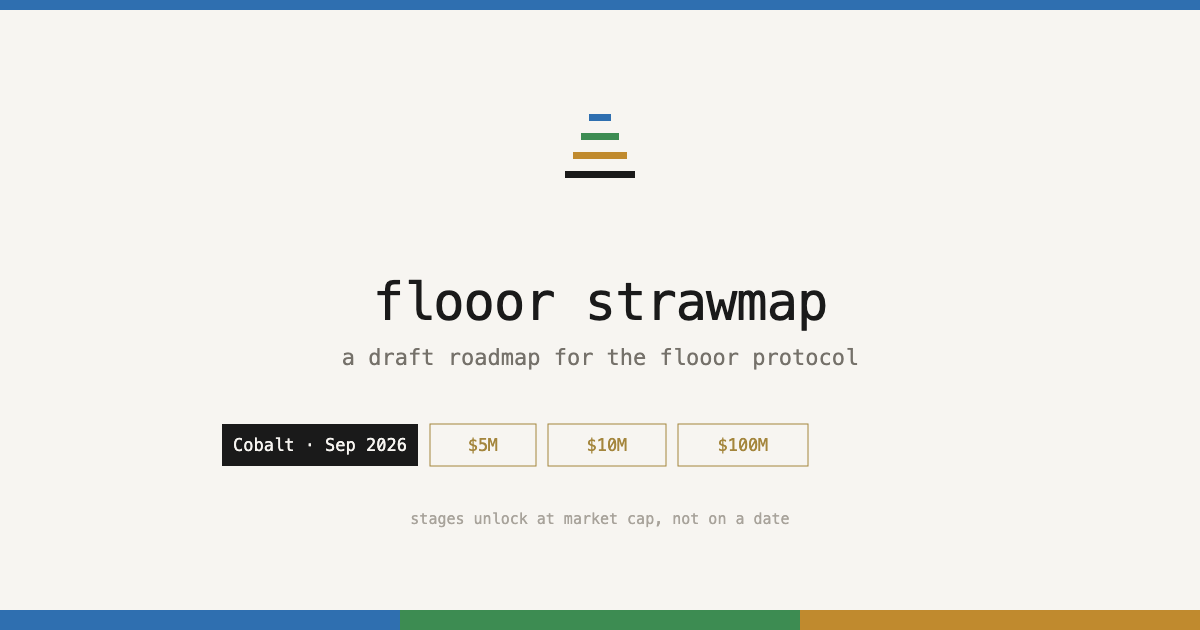
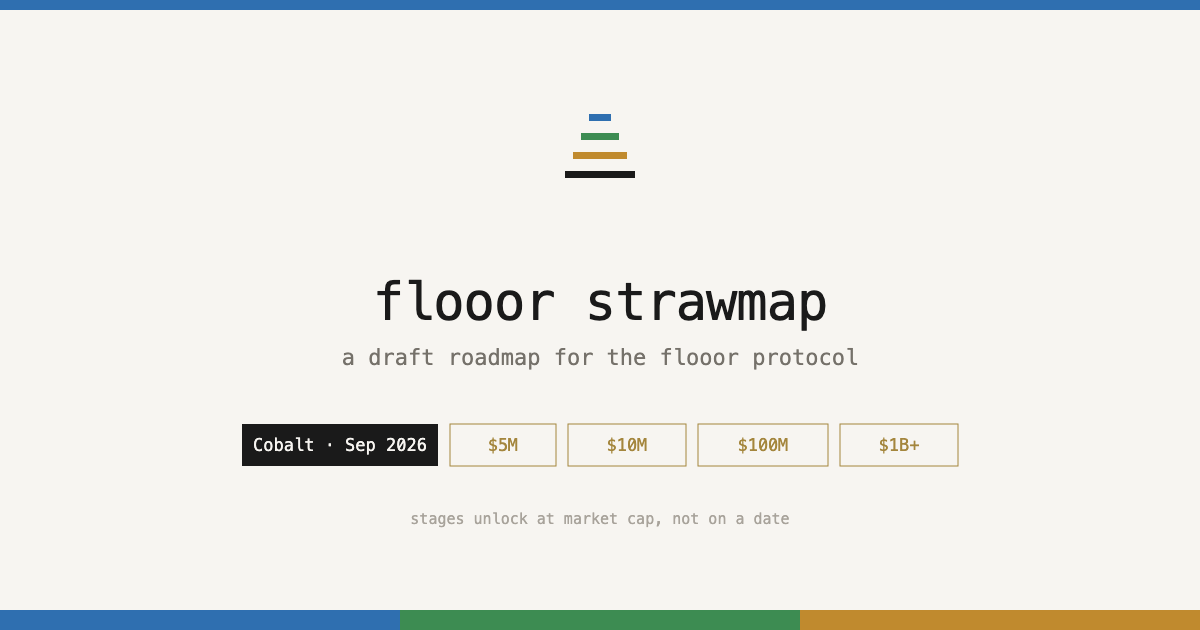
Add a $1B+ stage
The map stopped at $100M, which left the north stars — Punks, BAYC — with
no column that could plausibly carry them. Add a final $1B+ column:
the reference floor and a floor oracle on the listings row, an endowment
vault deep enough to pay from its own float on the vault row, and a
wallet-native flooor on the surface row.

Carry the new stage into the header, FAQ, OG card, meta copy and README.

Changed region(s): [[0.185, 0.6635, 0.8017, 0.754]]

diff --git a/index.html b/index.html
@@ -4,14 +4,14 @@
   <meta charset="UTF-8">
   <meta name="viewport" content="width=device-width, initial-scale=1.0">
   <title>flooor strawmap — draft protocol roadmap</title>
-  <meta name="description" content="A work-in-progress draft roadmap for the flooor protocol on Base. Stage 1 is Cobalt in September 2026; the stages after it unlock at $5M, $10M and $100M market cap. Covering the auction, vault and surface layers.">
+  <meta name="description" content="A work-in-progress draft roadmap for the flooor protocol on Base. Stage 1 is Cobalt in September 2026; the stages after it unlock at $5M, $10M, $100M and $1B+ market cap. Covering the auction, vault and surface layers.">
   <meta name="keywords" content="flooor, flooor.fun, roadmap, strawmap, NFT auction, Base, royalties, sign and claim, vault, market cap milestones, protocol roadmap">
   <meta name="author" content="flooor">
 
   <!-- Open Graph -->
   <meta property="og:type" content="website">
   <meta property="og:title" content="flooor strawmap — draft protocol roadmap">
-  <meta property="og:description" content="A strawman roadmap for the flooor protocol. Cobalt in September, then $5M, $10M and $100M market cap.">
+  <meta property="og:description" content="A strawman roadmap for the flooor protocol. Cobalt in September, then $5M, $10M, $100M and $1B+ market cap.">
   <meta property="og:url" content="https://omgbbqhaxx.github.io/flooorstrawmap/">
   <meta property="og:site_name" content="flooor strawmap">
   <meta property="og:image" content="https://omgbbqhaxx.github.io/flooorstrawmap/og-card.png">
@@ -21,7 +21,7 @@
   <!-- Twitter Card -->
   <meta name="twitter:card" content="summary_large_image">
   <meta name="twitter:title" content="flooor strawmap — draft protocol roadmap">
-  <meta name="twitter:description" content="A strawman roadmap for the flooor protocol. Cobalt in September, then $5M, $10M and $100M market cap.">
+  <meta name="twitter:description" content="A strawman roadmap for the flooor protocol. Cobalt in September, then $5M, $10M, $100M and $1B+ market cap.">
   <meta name="twitter:image" content="https://omgbbqhaxx.github.io/flooorstrawmap/og-card.png">
 
   <!-- Favicon (SVG) -->
@@ -102,7 +102,7 @@
     /* ── Grid ── */
     .grid {
       display: grid;
-      grid-template-columns: 104px repeat(4, 244px) 272px 272px;
+      grid-template-columns: 104px repeat(5, 240px) 268px 268px;
       column-gap: 12px;
       row-gap: 14px;
       align-items: stretch;
@@ -232,7 +232,7 @@
 
     /* ── North stars ── */
     .northstars {
-      grid-column: 6;
+      grid-column: 7;
       grid-row: 2 / span 3;
       background: #111;
       padding: 12px;
@@ -278,7 +278,7 @@
     .col-head.is-tasks .date { color: rgba(255, 255, 255, 0.5); }
 
     .tasks {
-      grid-column: 7;
+      grid-column: 8;
       grid-row: 2 / span 3;
       background: #1a1a1a;
       padding: 12px;
@@ -525,7 +525,7 @@
     <div class="header-meta">
       <div>
         <div class="label">stage 1 — Cobalt, September 2026</div>
-        <div>then $5M · $10M · $100M market cap · <a href="https://vrnouns.gitbook.io/flooor" target="_blank">docs</a></div>
+        <div>then $5M · $10M · $100M · $1B+ market cap · <a href="https://vrnouns.gitbook.io/flooor" target="_blank">docs</a></div>
       </div>
     </div>
     <div style="flex-shrink:0">
@@ -605,6 +605,10 @@
           <div class="name">$100M</div>
           <div class="date">unlocks at market cap</div>
         </div>
+        <div class="col-head is-cap">
+          <div class="name">$1B+</div>
+          <div class="date">unlocks at market cap</div>
+        </div>
         <div class="col-head is-ns">
           <div class="name">north stars</div>
           <div class="date">no date &middot; in order</div>
@@ -637,6 +641,11 @@
         <div class="cell cell--l">
           <div class="box box--head box--dep"><span class="tag">headliner</span><span class="t">multi-chain flooor</span><span class="n">same auction contract beyond Base</span></div>
           <div class="box"><span class="t">shared settlement</span><span class="n">one epoch clock across deployments</span></div>
+        </div>
+        <div class="cell cell--l">
+          <div class="box box--head box--dep"><span class="tag">headliner</span><span class="t">the reference floor</span><span class="n">the daily print is the number lenders, indices and marketplaces quote</span></div>
+          <div class="box"><span class="t">floor oracle</span><span class="n">a signed price feed any contract can read</span></div>
+          <div class="box"><span class="t">collection treasuries</span><span class="n">a collection runs its own flooor as its treasury</span></div>
         </div>
 
         <!-- north stars, spanning the three layer rows -->
@@ -707,6 +716,11 @@
           <div class="box"><span class="t">matched days</span><span class="n">the protocol matches a sponsor's top-up out of its own fee</span></div>
           <div class="box"><span class="t">protocol fee switch</span><span class="n">0.5% redirected by holder vote</span></div>
         </div>
+        <div class="cell cell--v">
+          <div class="box box--head box--dep"><span class="tag">headliner</span><span class="t">endowment vault</span><span class="n">the pool is deep enough to pay a daily yield on its own float — sponsors ride on top</span></div>
+          <div class="box"><span class="t">sponsor market</span><span class="n">a booked day can be resold before it arrives</span></div>
+          <div class="box box--off"><span class="tag">offchain</span><span class="t">sponsor desk</span><span class="n">brands and treasuries booking whole seasons</span></div>
+        </div>
 
         <!-- ── S — surface layer ── -->
         <div class="row-label row-label--s">
@@ -730,6 +744,11 @@
         <div class="cell cell--s">
           <div class="box box--head box--dep"><span class="tag">headliner</span><span class="t">flooor SDK</span><span class="n">drop a working auction into any app</span></div>
           <div class="box box--off"><span class="tag">offchain</span><span class="t">agent marketplace</span><span class="n">bots bid, sign and claim end to end</span></div>
+        </div>
+        <div class="cell cell--s">
+          <div class="box box--head box--dep"><span class="tag">headliner</span><span class="t">wallet-native flooor</span><span class="n">bid, sign and claim without leaving the wallet you already use</span></div>
+          <div class="box"><span class="t">one-tap sponsor</span><span class="n">fund a day from anywhere the button is embedded</span></div>
+          <div class="box box--off"><span class="tag">offchain</span><span class="t">open data commons</span><span class="n">every floor print, free, for anyone to build on</span></div>
         </div>
 
       </div>
@@ -800,7 +819,7 @@
       <dd>
         <p>Stages, not dates. Cobalt is stage 1 and the only column with a calendar date on it, because it is
         already being built. What is live today isn't on the map — the map is what comes next.</p>
-        <p>Everything after Cobalt is gated on protocol market cap rather than a quarter: the $5M, $10M and $100M
+        <p>Everything after Cobalt is gated on protocol market cap rather than a quarter: the $5M, $10M, $100M and $1B+
         columns unlock when flooor reaches that market cap. Each one is a bigger surface to pay for and a bigger
         vault to defend, so the scope inside it is sized to what the protocol can carry at that point.</p>
       </dd>
@@ -899,7 +918,7 @@
   <footer class="site-footer">
     <div>
       <div class="label">stage 1 — Cobalt, September 2026</div>
-      <div>then $5M · $10M · $100M market cap</div>
+      <div>then $5M · $10M · $100M · $1B+ market cap</div>
     </div>
     <button class="toggle-btn" id="toggleBtnFooter">+ info</button>
   </footer>

diff --git a/faq.html b/faq.html
@@ -4,7 +4,7 @@
   <meta charset="UTF-8">
   <meta name="viewport" content="width=device-width, initial-scale=1.0">
   <title>FAQ — flooor strawmap</title>
-  <meta name="description" content="Frequently asked questions about the flooor strawmap, the draft roadmap for the flooor protocol on Base. Stage 1 is Cobalt in September 2026; the stages after it unlock at $5M, $10M and $100M market cap.">
+  <meta name="description" content="Frequently asked questions about the flooor strawmap, the draft roadmap for the flooor protocol on Base. Stage 1 is Cobalt in September 2026; the stages after it unlock at $5M, $10M, $100M and $1B+ market cap.">
   <meta name="keywords" content="flooor, flooor.fun, roadmap, strawmap, FAQ, NFT auction, Base, royalties, vault, market cap milestones">
   <meta name="author" content="flooor">
 
@@ -73,7 +73,7 @@
     <h1>flooor strawmap</h1>
     <p class="lede" style="margin-top: var(--space-sm);">
       A strawman roadmap for the <a href="https://flooor.fun" target="_blank">flooor</a> protocol on Base.
-      Cobalt is stage 1 and lands in September 2026. The stages after it unlock at $5M, $10M and $100M market cap
+      Cobalt is stage 1 and lands in September 2026. The stages after it unlock at $5M, $10M, $100M and $1B+ market cap
       rather than on a date.
     </p>
 
@@ -107,7 +107,7 @@
       <dd>
         <p>Stages, not dates. Cobalt is stage 1 and the only column with a calendar date on it, because it is
         already being built. What is live today isn't on the map — the map is what comes next.</p>
-        <p>Everything after Cobalt is gated on protocol market cap rather than a quarter: the $5M, $10M and $100M
+        <p>Everything after Cobalt is gated on protocol market cap rather than a quarter: the $5M, $10M, $100M and $1B+
         columns unlock when flooor reaches that market cap. Each one is a bigger surface to pay for and a bigger
         vault to defend, so the scope inside it is sized to what the protocol can carry at that point.</p>
       </dd>

diff --git a/README.md b/README.md
@@ -2,7 +2,7 @@
 
 A work-in-progress draft roadmap for the [flooor](https://flooor.fun) protocol on Base.
 
-**Stage 1 — Cobalt, September 2026.** Every stage after it unlocks at a protocol market cap — $5M, $10M, $100M — rather than on a date.
+**Stage 1 — Cobalt, September 2026.** Every stage after it unlocks at a protocol market cap — $5M, $10M, $100M, $1B+ — rather than on a date.
 
 ## Live site
 
